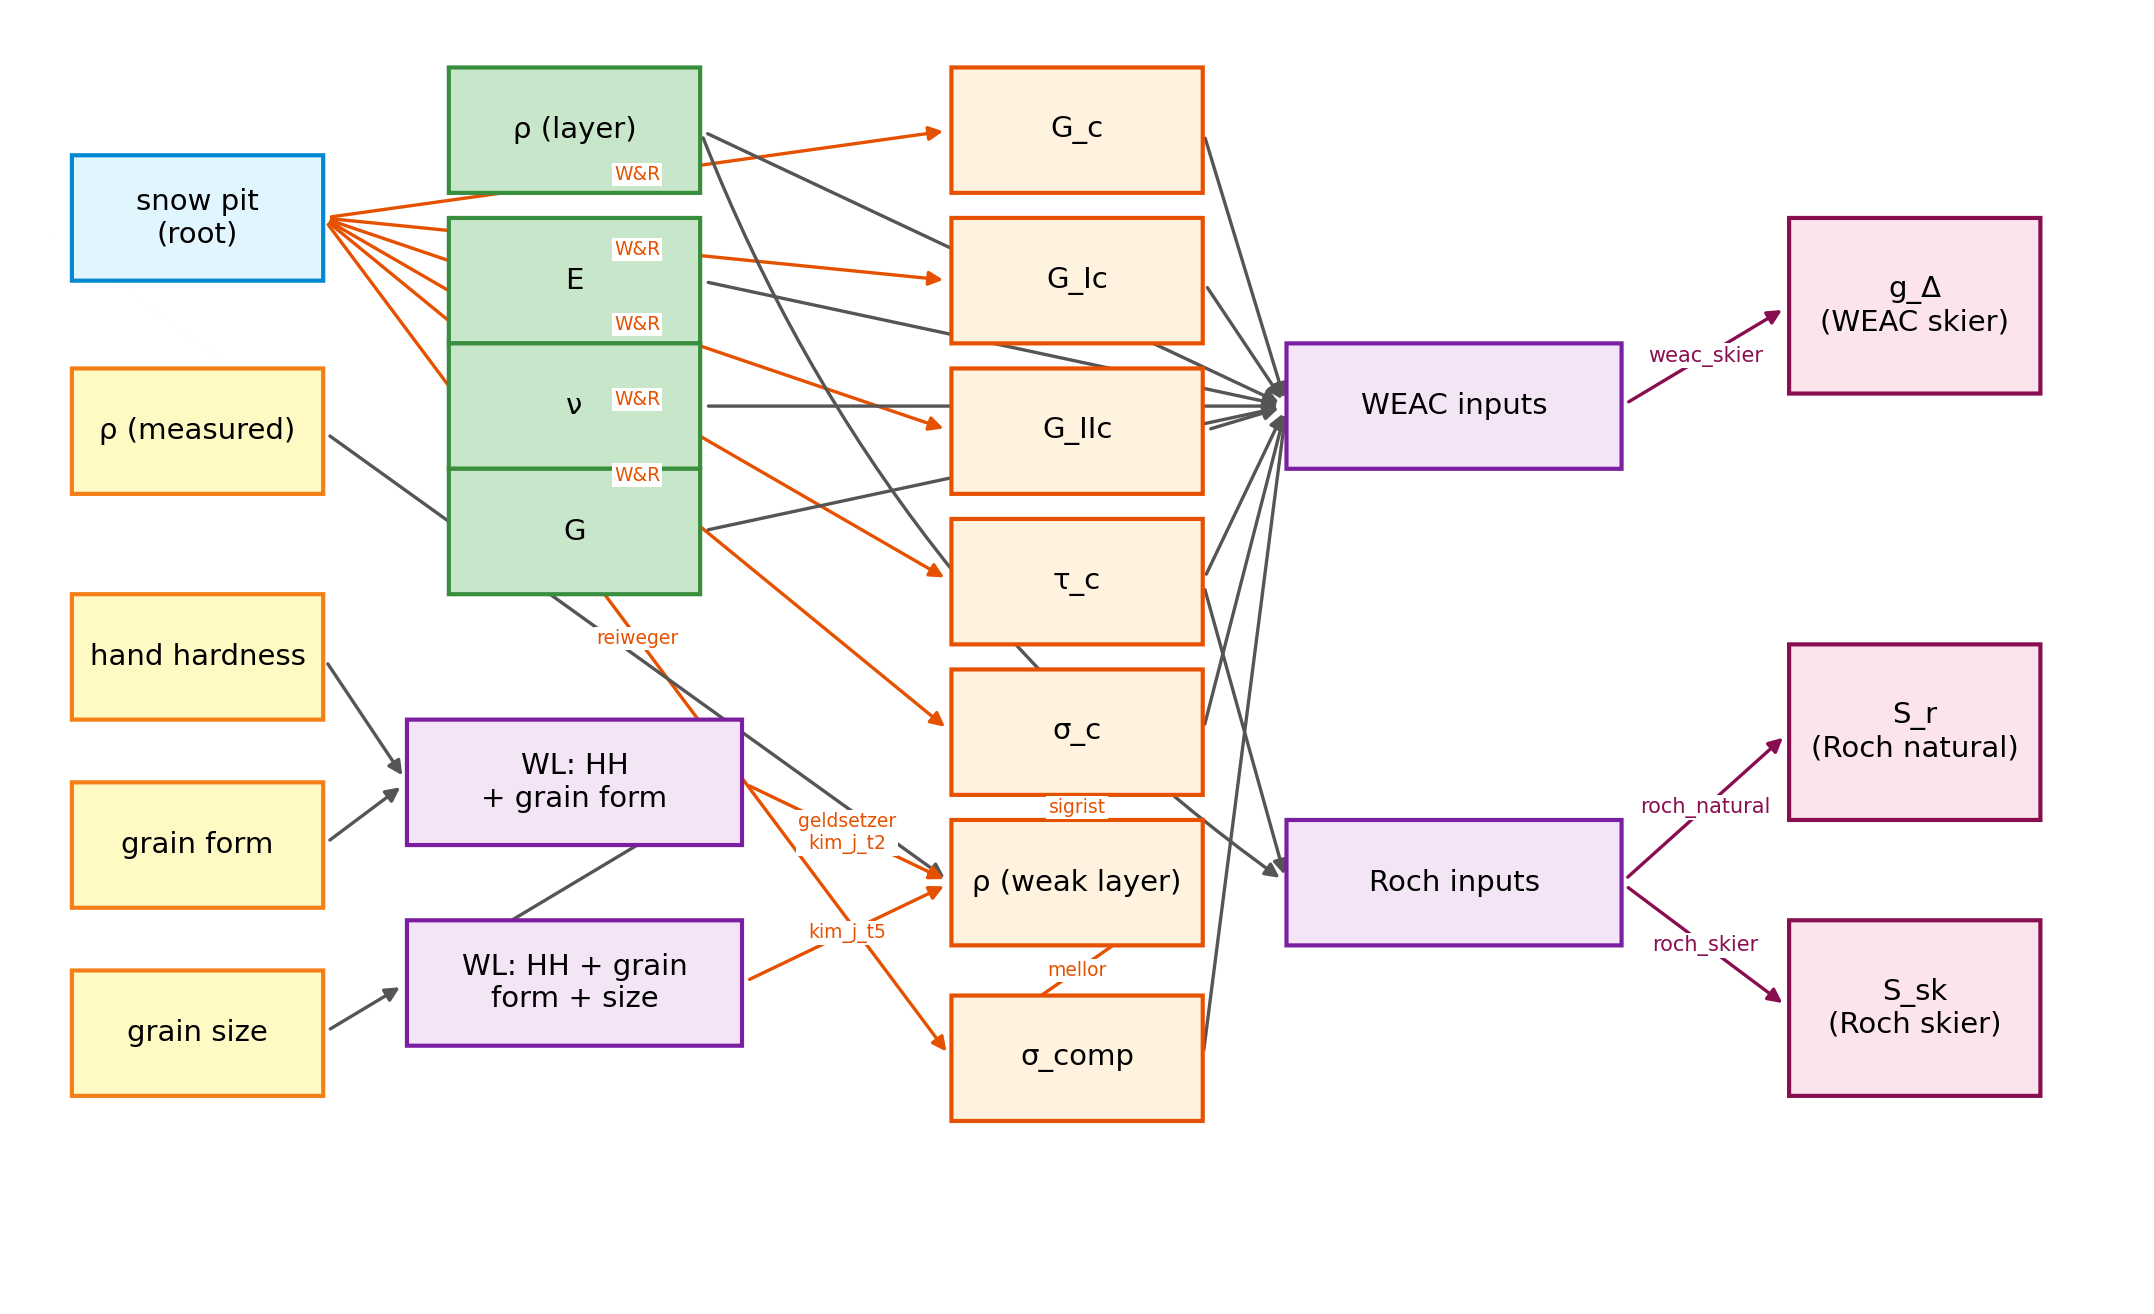
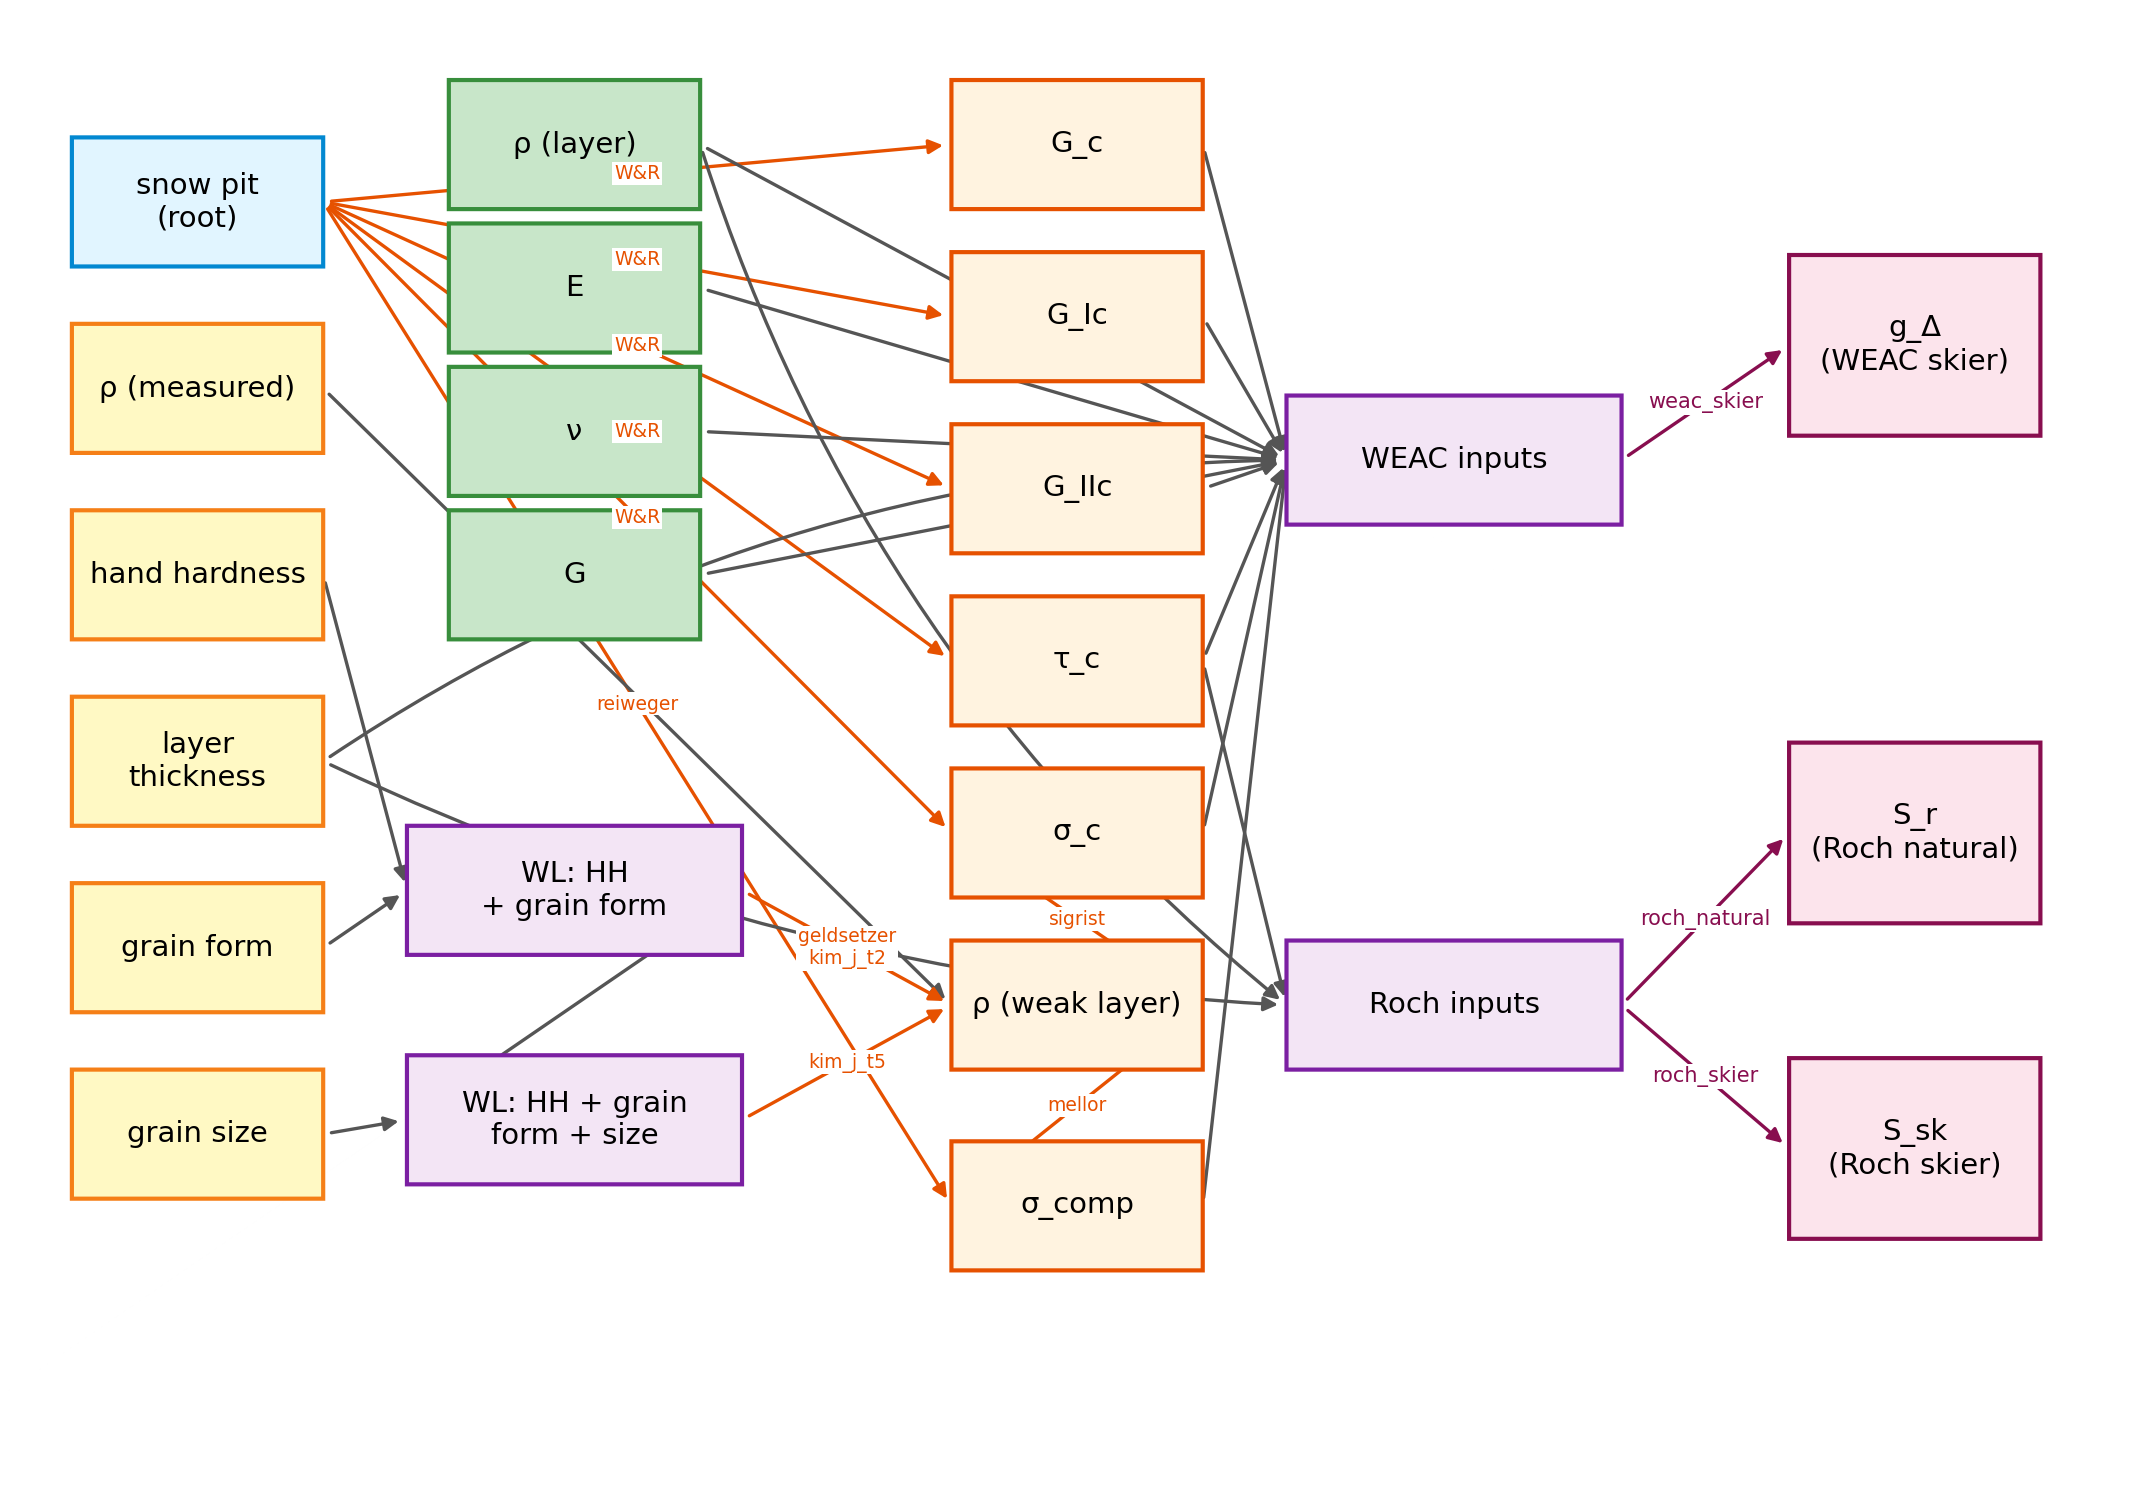
digram progress

diff --git a/src/snowpyt_mechparams/graph/visualize_matplotlib.py b/src/snowpyt_mechparams/graph/visualize_matplotlib.py
@@ -613,6 +613,14 @@ def generate_matplotlib_stability_detail(graph: Graph) -> Figure:  # noqa: ARG00
     _draw_arrow(ax, wl_params["tauc"].x + BW/2, wl_params["tauc"].y,
                     stab_merge["m_roch"].x - MW/2, stab_merge["m_roch"].y, color=ac)
 
+    # measured_layer_thickness → m_weac and m_roch
+    _draw_arrow(ax, inp["meas_thick"].x + BW/2, inp["meas_thick"].y,
+                    stab_merge["m_weac"].x - MW/2, stab_merge["m_weac"].y,
+                    color=ac, connectionstyle="arc3,rad=-0.15")
+    _draw_arrow(ax, inp["meas_thick"].x + BW/2, inp["meas_thick"].y,
+                    stab_merge["m_roch"].x - MW/2, stab_merge["m_roch"].y,
+                    color=ac, connectionstyle="arc3,rad=0.1")
+
     # m_weac → g_delta
     _draw_arrow(ax, stab_merge["m_weac"].x + MW/2, stab_merge["m_weac"].y,
                     outputs["gdelta"].x - BW/2, outputs["gdelta"].y,

diff --git a/docs/diagrams/stability.md b/docs/diagrams/stability.md
@@ -8,6 +8,7 @@ graph LR
     measured_hand_hardness[hand hardness]
     measured_grain_form[grain form]
     measured_grain_size[grain size]
+    measured_layer_thickness[layer thickness]
     density[ρ (density)]
     elastic_modulus[E (elastic modulus)]
     poissons_ratio[ν (Poisson's ratio)]
@@ -32,6 +33,7 @@ graph LR
     snow_pit --> measured_hand_hardness
     snow_pit --> measured_grain_form
     snow_pit --> measured_grain_size
+    snow_pit --> measured_layer_thickness
     measured_density --> density
     measured_grain_form -->|kochle| poissons_ratio
     snow_pit -->|weissgraeber_rosendahl| G_c
@@ -54,6 +56,7 @@ graph LR
     elastic_modulus --> merge_weac_inputs
     poissons_ratio --> merge_weac_inputs
     shear_modulus --> merge_weac_inputs
+    measured_layer_thickness --> merge_weac_inputs
     G_c --> merge_weac_inputs
     G_Ic --> merge_weac_inputs
     G_IIc --> merge_weac_inputs
@@ -62,6 +65,7 @@ graph LR
     sigma_comp --> merge_weac_inputs
     merge_weac_inputs -->|weac_skier| g_delta
     density --> merge_roch_inputs
+    measured_layer_thickness --> merge_roch_inputs
     tau_c --> merge_roch_inputs
     merge_roch_inputs -->|roch_natural| s_r
     merge_roch_inputs -->|roch_skier| s_sk
@@ -76,7 +80,7 @@ graph LR
     classDef stabilityCalc fill:#fce4ec,stroke:#880e4f,stroke-width:3px
     
     class snow_pit rootNode
-    class measured_density,measured_hand_hardness,measured_grain_form,measured_grain_size measuredNode
+    class measured_density,measured_hand_hardness,measured_grain_form,measured_grain_size,measured_layer_thickness measuredNode
     class merge_wl_hand_hardness_grain_form,merge_wl_hand_hardness_grain_form_grain_size,merge_weac_inputs,merge_roch_inputs mergeNode
     class density,elastic_modulus,poissons_ratio,shear_modulus layerCalc
     class G_c,G_Ic,G_IIc,sigma_c,tau_c,sigma_comp,density_weak_layer weakLayerCalc

diff --git a/docs/diagrams/full.md b/docs/diagrams/full.md
@@ -106,6 +106,7 @@ graph LR
     elastic_modulus --> merge_weac_inputs
     poissons_ratio --> merge_weac_inputs
     shear_modulus --> merge_weac_inputs
+    measured_layer_thickness --> merge_weac_inputs
     G_c --> merge_weac_inputs
     G_Ic --> merge_weac_inputs
     G_IIc --> merge_weac_inputs
@@ -114,6 +115,7 @@ graph LR
     sigma_comp --> merge_weac_inputs
     merge_weac_inputs -->|WEAC| g_delta
     density --> merge_roch_inputs
+    measured_layer_thickness --> merge_roch_inputs
     tau_c --> merge_roch_inputs
     merge_roch_inputs -->|Roch-n| s_r
     merge_roch_inputs -->|Roch-sk| s_sk